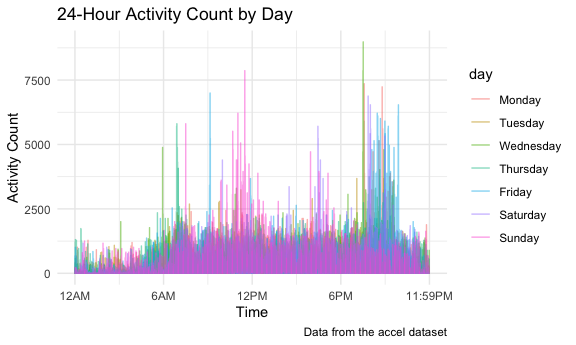
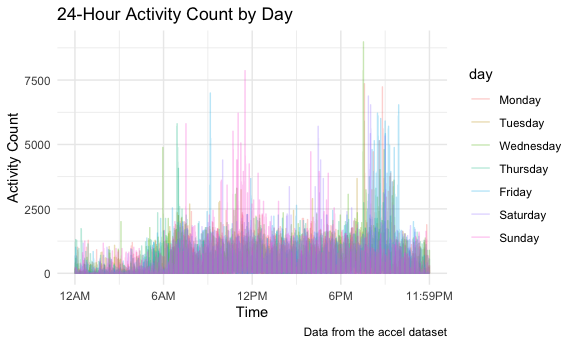
tidy code

diff --git a/P8105_hw3_hc3212.md b/P8105_hw3_hc3212.md
@@ -393,9 +393,8 @@ in words any patterns or conclusions you can make based on this graph.**
 
 ``` r
 accel_df %>% 
-  mutate(activity_hour = floor((as.numeric(activity_minute)-1))/60) %>% 
-  ggplot(aes(x = activity_hour, y = activity_count, color = day)) + 
-  geom_line(alpha = 0.5) +
+  ggplot(aes(x = activity_minute, y = activity_count, color = day)) + 
+  geom_line(alpha = 0.3) +
   labs(
     title = "24-Hour Activity Count by Day",
     x = "Time",
@@ -403,9 +402,9 @@ accel_df %>%
     caption = "Data from the accel dataset"
   ) + 
   scale_x_continuous(
-    breaks = c(0, 6, 12, 18, 24), 
+    breaks = c(0, 360, 720, 1080, 1440), 
     labels = c("12AM", "6AM", "12PM", "6PM", "11:59PM"),
-    limits = c(0, 24)
+    limits = c(0, 1440)
     )
 ```
 
